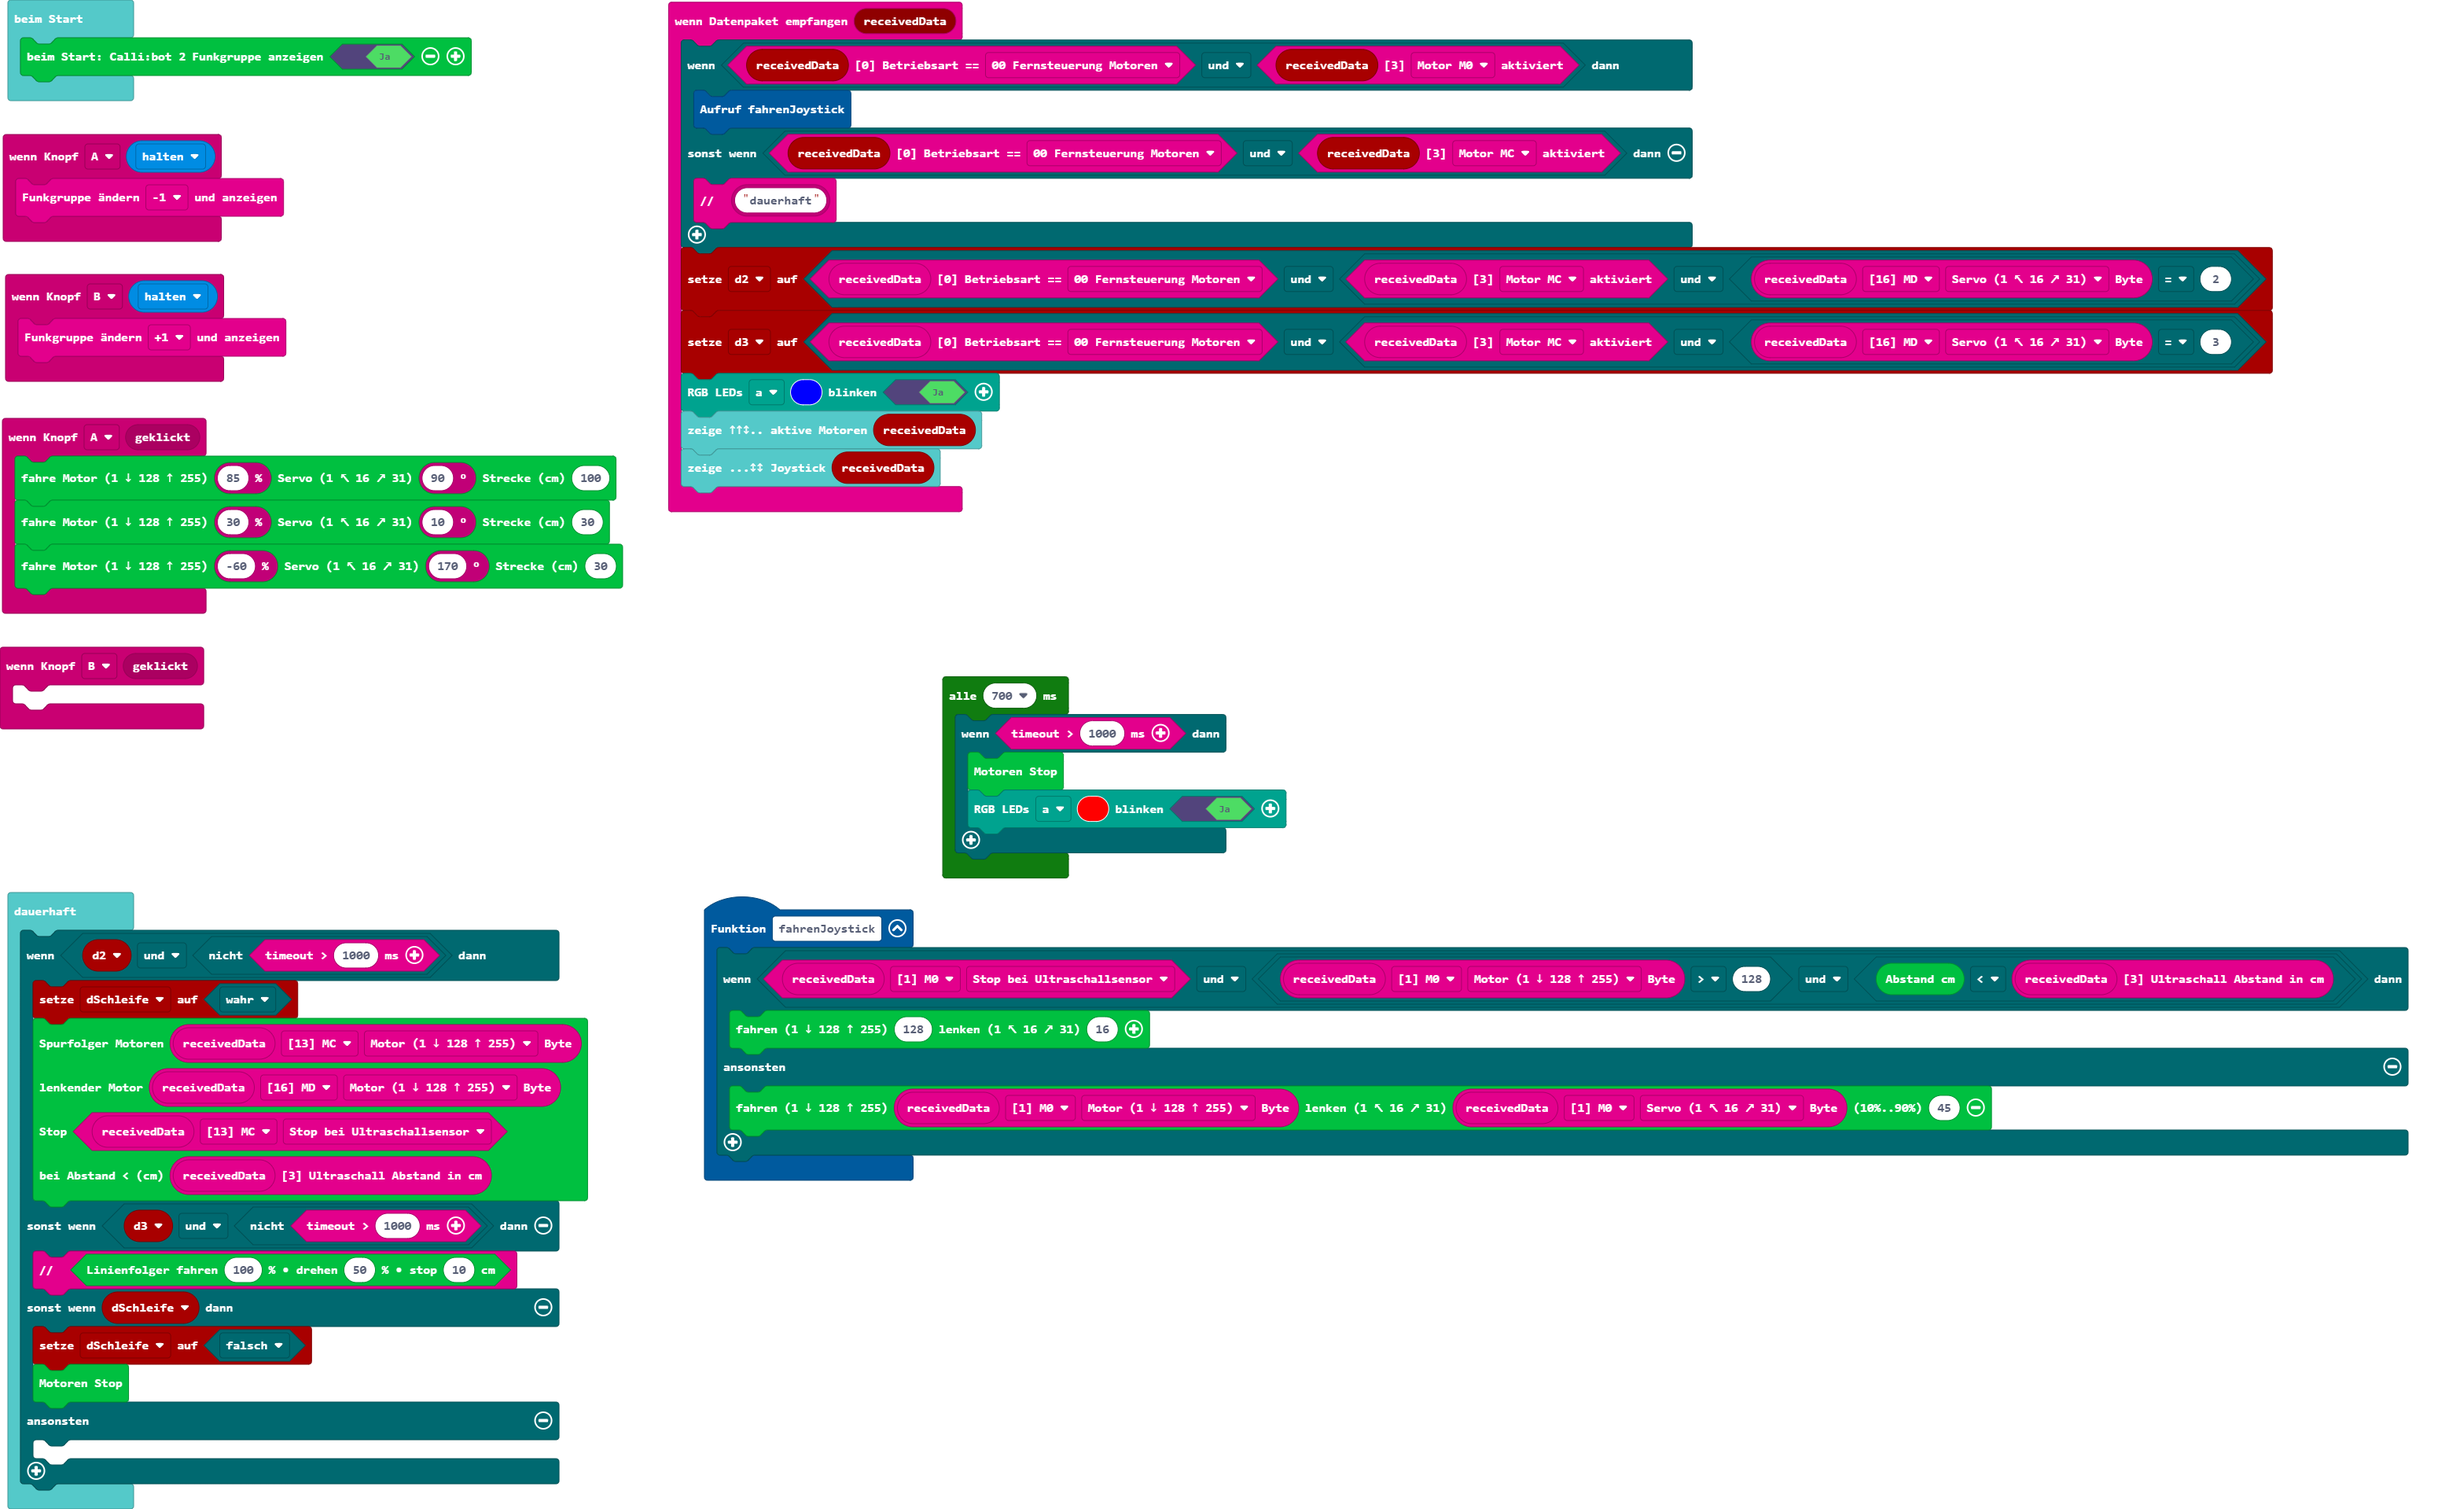
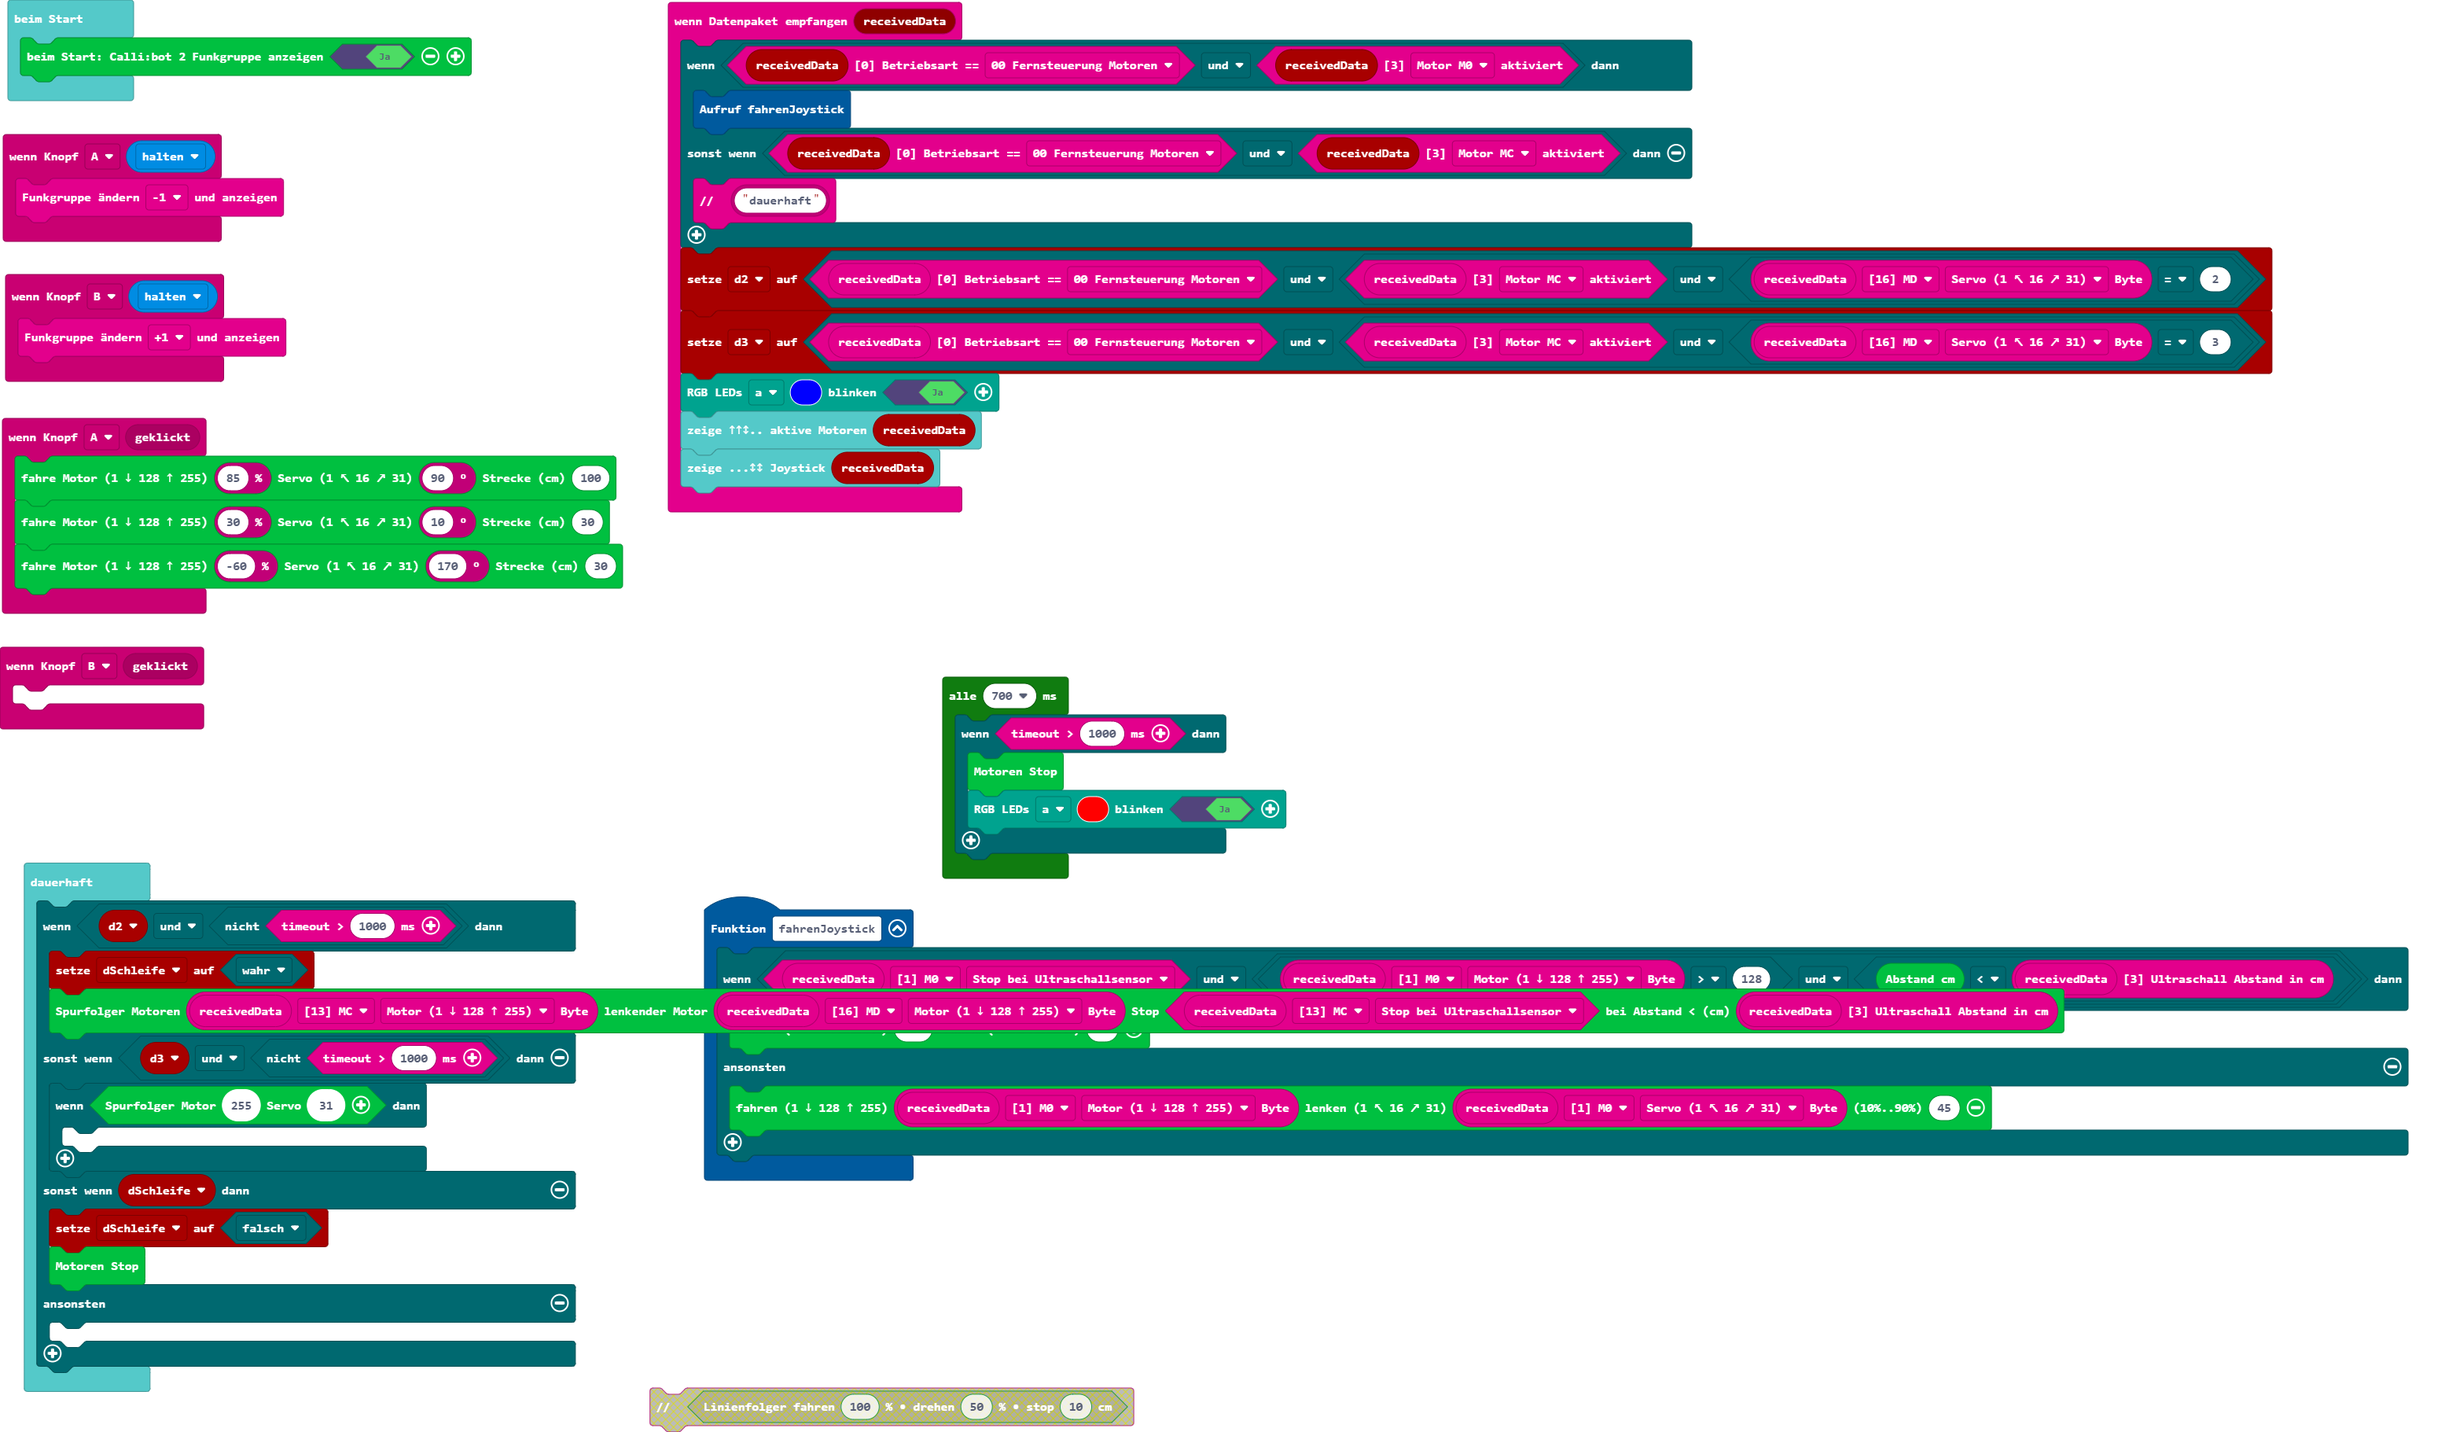
Aktualisiere pxt.json, main.blocks, main.ts

diff --git a/main.ts b/main.ts
@@ -38,14 +38,11 @@ cb2.beimStart(true)
 basic.forever(function () {
     if (d2 && !(btf.timeout(1000))) {
         dSchleife = true
-        cb2.beispielSpurfolger(
-        btf.getByte(btf.btf_receivedBuffer19(), btf.eBufferPointer.mc, btf.eBufferOffset.b0_Motor),
-        btf.getByte(btf.btf_receivedBuffer19(), btf.eBufferPointer.md, btf.eBufferOffset.b0_Motor),
-        btf.getSensor(btf.btf_receivedBuffer19(), btf.eBufferPointer.mc, btf.eSensor.b6),
-        btf.getAbstand(btf.btf_receivedBuffer19())
-        )
+        cb2.beispielSpurfolger(btf.getByte(btf.btf_receivedBuffer19(), btf.eBufferPointer.mc, btf.eBufferOffset.b0_Motor), btf.getByte(btf.btf_receivedBuffer19(), btf.eBufferPointer.md, btf.eBufferOffset.b0_Motor), btf.getSensor(btf.btf_receivedBuffer19(), btf.eBufferPointer.mc, btf.eSensor.b6), btf.getAbstand(btf.btf_receivedBuffer19()))
     } else if (d3 && !(btf.timeout(1000))) {
-        btf.comment(cb2.seite9Linienfolger(100, 50, 10))
+        if (cb2.beispielSpurfolger16(255, 31)) {
+        	
+        }
     } else if (dSchleife) {
         dSchleife = false
         cb2.writeMotorenStop()
